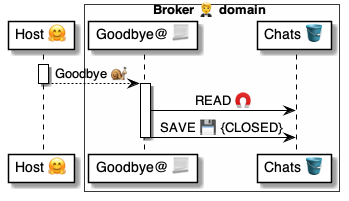
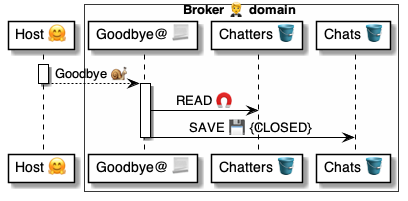
.

diff --git a/.tools/links/link_replacements/tokens.py b/.tools/links/link_replacements/tokens.py
@@ -17,7 +17,7 @@ TRIPLE_BRACE_PATTERN = re.compile(r"\{\{\{([^{}]+)\}\}\}")
 
 _SIMPLE_CONTENT_CACHE: Dict[str, Dict[str, object]] = {}
 _SIMPLE_CACHE_LOCK = RLock()
-LINK_PATTERN = re.compile(r"\[.*?\]\(<.*?>\)", re.DOTALL)
+LINK_PATTERN = re.compile(r"\[[^\]]+?\]\(<[^>]+?>\)", re.DOTALL)
 PATTERN_NEEDLES: Dict[int, str] = {}
 TOKEN_LITERAL_EXTRACT = re.compile(r"`\??([^`]+)`\??")
 

diff --git a/4 ⚙ Solution/20 🧑🦰 UI/Brokers 🤵/🤵🅰 Broker methods/Chats 💬 Goodbye 🤗🐌🤵/🤵 Goodbye 📃 handler.md b/4 ⚙ Solution/20 🧑🦰 UI/Brokers 🤵/🤵🅰 Broker methods/Chats 💬 Goodbye 🤗🐌🤵/🤵 Goodbye 📃 handler.md
@@ -1,17 +1,16 @@
-# 🤵📃 Presented
+# 🤵 Goodbye 📃 handler
 
 > Purpose
-* [Script 📃](<../../../../35 💬 Chats/Scripts 📃/Script 📃.md>) that implements the [`Presented@Broker`](<🤵 Presented 🐌 msg.md>) method.
+* [Script 📃](<../../../../35 💬 Chats/Scripts 📃/Script 📃.md>) that implements the [`Goodbye@Broker`](<🤵 Goodbye 🐌 msg.md>) method.
 
 ## Diagram
 
-![alt text](<🤵 Presented ⚙ uml.png>)
-
+![alt text](<🤵 Goodbye ⚙ uml.png>)
 
 ## Script
 
 ```yaml
-📃 Presented@Broker:
+📃 Goodbye@Broker:
 
 # Verify the message
 - VERIFY|$.Msg
@@ -28,11 +27,11 @@
         Domain: $.Msg.From
         Chat: $.Msg.Chat
     Assert:
-        Role: FINDER
+        Role: HOST
 
 # Process the Chat state
 - SAVE|$chatter.Chat:
-    .State: PRESENTED
+    .State: CLOSED
 ```
 
 Uses||

diff --git a/4 ⚙ Solution/37 Scripts 📃/📃 Commands ⌘/⌘ for datasets 🪣/READ 🧲/🧲 READ ⌘ cmd.md b/4 ⚙ Solution/37 Scripts 📃/📃 Commands ⌘/⌘ for datasets 🪣/READ 🧲/🧲 READ ⌘ cmd.md
@@ -52,7 +52,7 @@
     |-|-|-
     | `Set` | Name of resource pool | `MyPool`
     | `Key`  | Key to look up in the pool | `1` `$h` `{A:1,B:2}`
-    | `Assert` | {{.Assert}} filters | `Type:Admin`
+    | `Assert` | [`.Assert`](<../../../📃 Holders 🧠/List 📚 holders/Assert ⓕ.md>) filters | `Type:Admin`
     | `Get`  | [List 🧠](<../../../📃 Holders 🧠/List 📚 holders/🧠 List holders.md>) of fields to retrieve | `A,B` `{Alias:A}`
     |        | Makes the `$item` readonly
     | `Expand` | Parents and children to get| `Customer, Lines`
